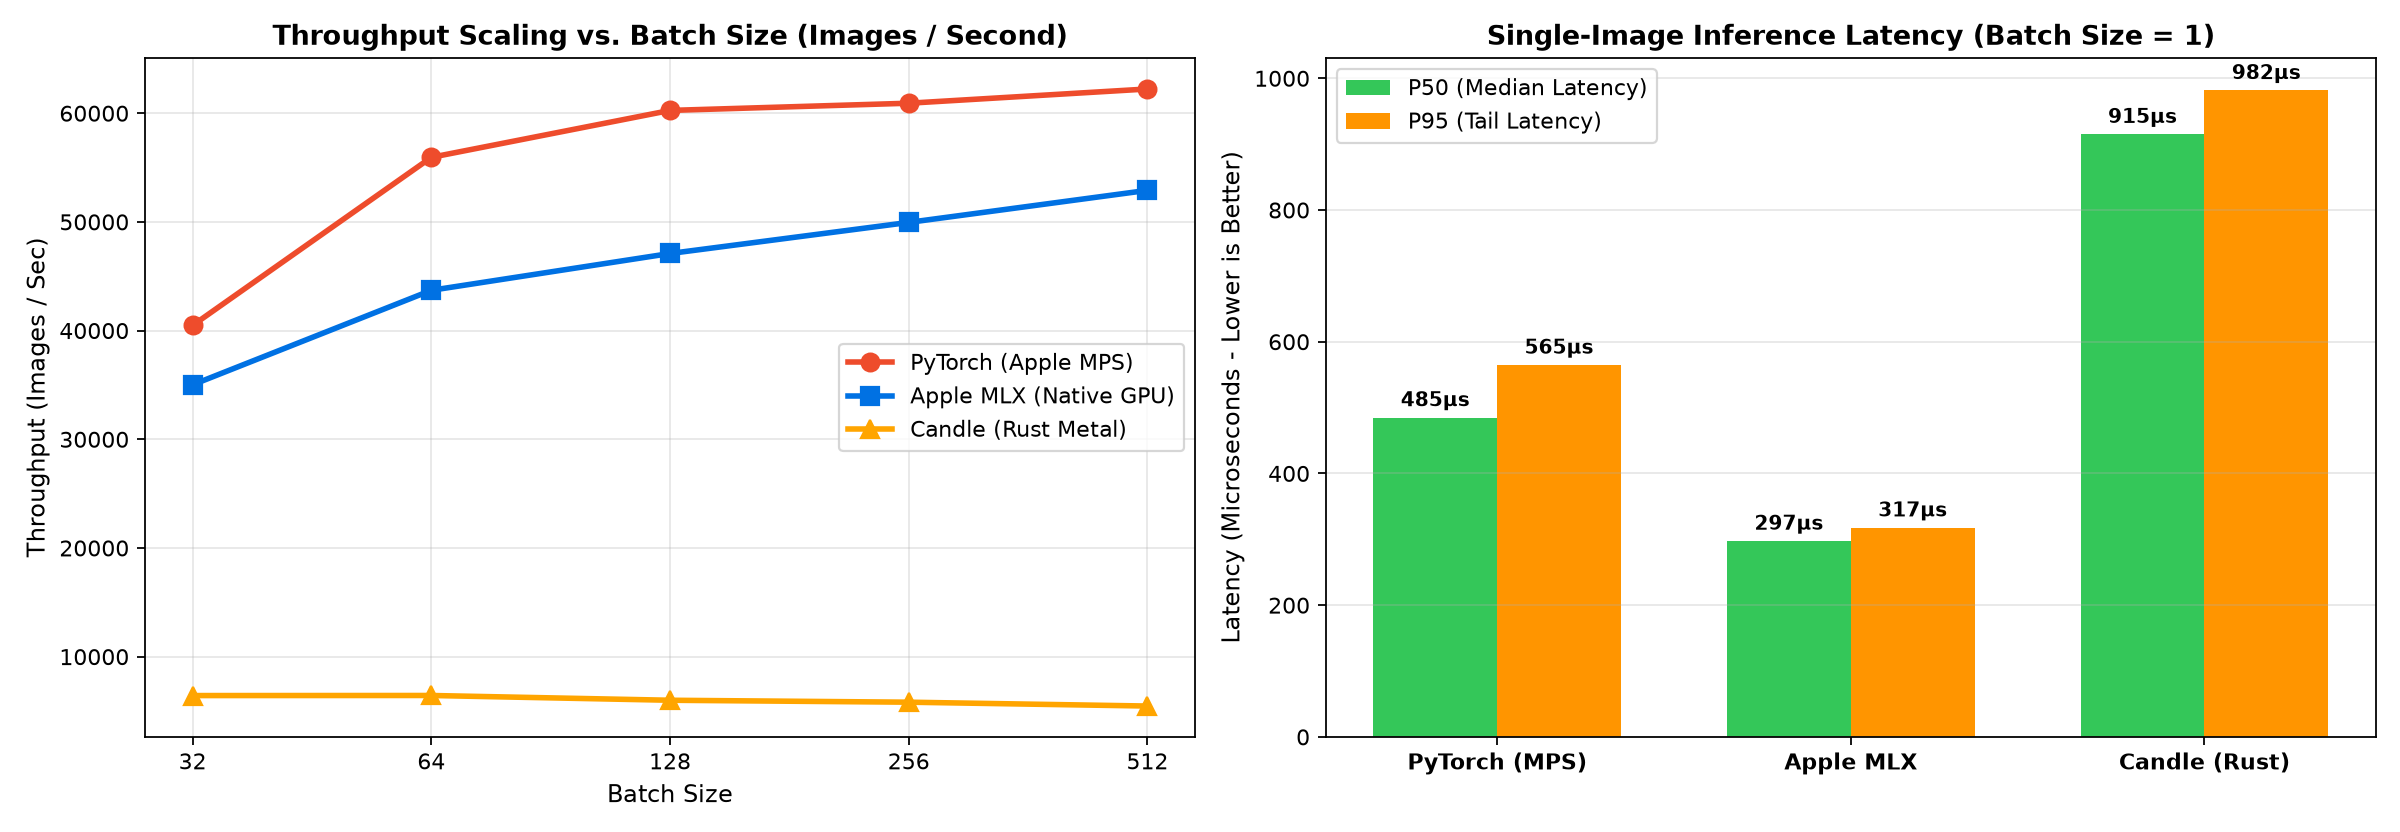
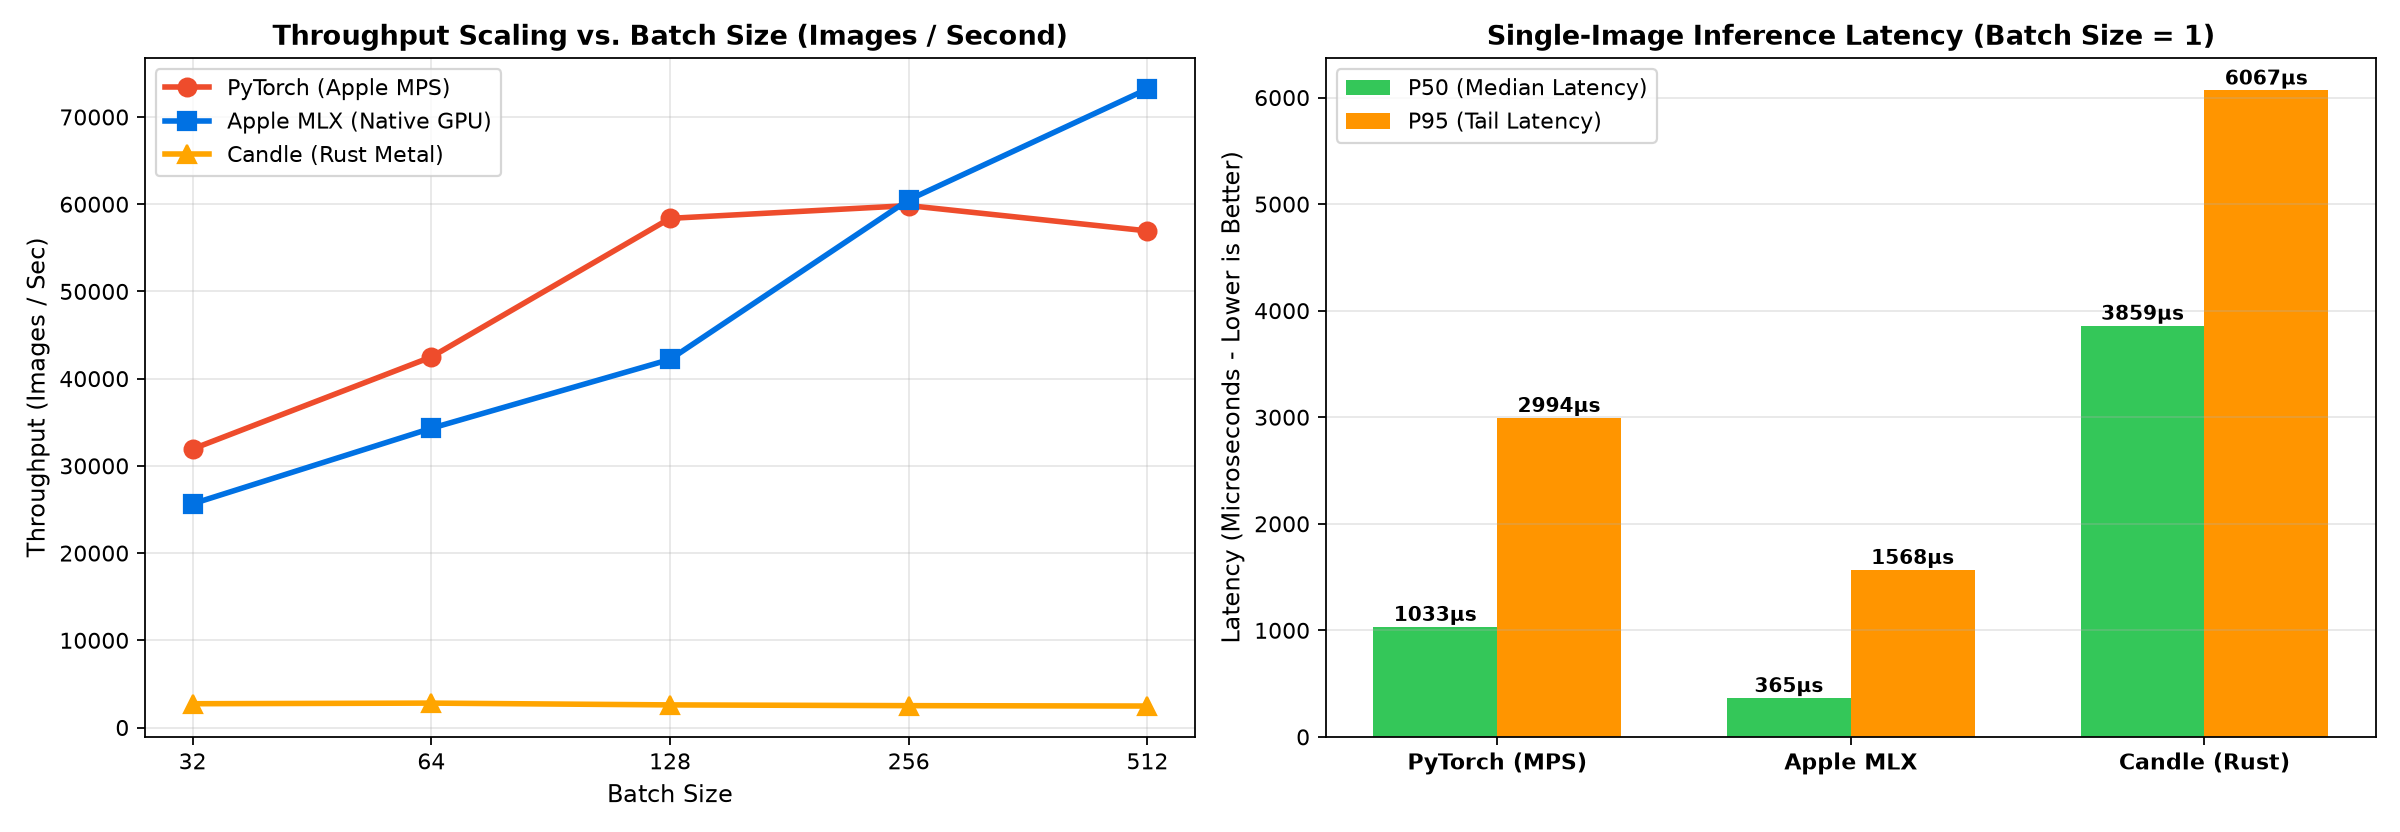
Match model architecture and timing across frameworks

diff --git a/rust_candle/src/main.rs b/rust_candle/src/main.rs
@@ -1,11 +1,16 @@
 use anyhow::Result;
 use candle_core::{Device, Tensor};
-use candle_nn::{conv2d, linear, Conv2dConfig, Linear, Module, VarBuilder, VarMap};
+use candle_nn::{
+    batch_norm, conv2d, linear, BatchNorm, BatchNormConfig, Conv2dConfig, Linear, Module,
+    ModuleT, VarBuilder, VarMap,
+};
 use std::time::Instant;
 
 struct StandardCNN {
     conv1: candle_nn::Conv2d,
+    bn1: BatchNorm,
     conv2: candle_nn::Conv2d,
+    bn2: BatchNorm,
     fc1: Linear,
     fc2: Linear,
 }
@@ -17,17 +22,27 @@ impl StandardCNN {
             ..Default::default()
         };
         let conv1 = conv2d(1, 32, 3, conv_cfg, vs.pp("conv1"))?;
+        let bn1 = batch_norm(32, BatchNormConfig::default(), vs.pp("bn1"))?;
         let conv2 = conv2d(32, 64, 3, conv_cfg, vs.pp("conv2"))?;
+        let bn2 = batch_norm(64, BatchNormConfig::default(), vs.pp("bn2"))?;
         let fc1 = linear(64 * 7 * 7, 128, vs.pp("fc1"))?;
         let fc2 = linear(128, 10, vs.pp("fc2"))?;
-        Ok(Self { conv1, conv2, fc1, fc2 })
+        Ok(Self {
+            conv1,
+            bn1,
+            conv2,
+            bn2,
+            fc1,
+            fc2,
+        })
     }
 
     fn forward(&self, xs: &Tensor) -> Result<Tensor> {
-        // xs: (B, 1, 28, 28)
-        let xs = self.conv1.forward(xs)?.relu()?;
+        // xs: (B, 1, 28, 28); BatchNorm in inference mode (train = false) to match
+        // torch `model.eval()` and mlx `model.eval()`.
+        let xs = self.bn1.forward_t(&self.conv1.forward(xs)?, false)?.relu()?;
         let xs = xs.max_pool2d(2)?; // (B, 32, 14, 14)
-        let xs = self.conv2.forward(&xs)?.relu()?;
+        let xs = self.bn2.forward_t(&self.conv2.forward(&xs)?, false)?.relu()?;
         let xs = xs.max_pool2d(2)?; // (B, 64, 7, 7)
         let (b, _, _, _) = xs.dims4()?;
         let xs = xs.reshape((b, 64 * 7 * 7))?;
@@ -37,10 +52,19 @@ impl StandardCNN {
     }
 }
 
-fn sync_device(t: &Tensor) -> Result<()> {
-    // Reading data from the tensor forces Apple Metal GPU synchronization
-    let _ = t.flatten_all()?.to_vec1::<f32>()?;
+fn sync_device(device: &Device) -> Result<()> {
+    // Wait for all queued Metal command buffers; no host copy (matches
+    // torch.mps.synchronize() and mx.eval()).
+    device.synchronize()?;
     Ok(())
+}
+
+// Linear interpolation, identical to numpy.percentile(method="linear").
+fn pct(sorted: &[f64], q: f64) -> f64 {
+    let pos = q * (sorted.len() - 1) as f64;
+    let lo = pos.floor() as usize;
+    let hi = pos.ceil() as usize;
+    sorted[lo] + (sorted[hi] - sorted[lo]) * (pos - lo as f64)
 }
 
 fn main() -> Result<()> {
@@ -61,7 +85,8 @@ fn main() -> Result<()> {
     let model = StandardCNN::new(vs)?;
 
     let batch_sizes = vec![32, 64, 128, 256, 512];
-    let iterations = 40;
+    let min_seconds = 2.0f64;
+    let min_iters = 50usize;
 
     println!("\n>>> Candle (Rust) Batch Throughput Benchmark <<<");
     let mut throughput_map = serde_json::Map::new();
@@ -72,25 +97,34 @@ fn main() -> Result<()> {
         // Warmup
         for _ in 0..5 {
             let out = model.forward(&x)?;
-            sync_device(&out)?;
+            let _ = out;
+            sync_device(&device)?;
         }
 
+        let mut n = 0usize;
         let start = Instant::now();
-        for _ in 0..iterations {
+        loop {
             let out = model.forward(&x)?;
-            sync_device(&out)?;
+            let _ = out;
+            sync_device(&device)?;
+            n += 1;
+            if n >= min_iters && start.elapsed().as_secs_f64() >= min_seconds {
+                break;
+            }
         }
         let duration = start.elapsed().as_secs_f64();
 
-        let total_imgs = (bs * iterations) as f64;
+        let total_imgs = (bs * n) as f64;
         let img_per_sec = total_imgs / duration;
         throughput_map.insert(bs.to_string(), serde_json::Value::from(img_per_sec));
 
         println!(
-            "  Batch {:3}: {:8.0} img/s ({:6.2} ms/step)",
+            "  Batch {:3}: {:8.0} img/s ({:6.2} ms/step, {} iters in {:.2}s)",
             bs,
             img_per_sec,
-            (duration / iterations as f64) * 1000.0
+            (duration / n as f64) * 1000.0,
+            n,
+            duration
         );
     }
 
@@ -100,21 +134,23 @@ fn main() -> Result<()> {
     // Warmup
     for _ in 0..20 {
         let out = model.forward(&x1)?;
-        sync_device(&out)?;
+        let _ = out;
+        sync_device(&device)?;
     }
 
     let mut latencies_us = Vec::with_capacity(500);
     for _ in 0..500 {
         let t0 = Instant::now();
         let out = model.forward(&x1)?;
-        sync_device(&out)?;
+        let _ = out;
+        sync_device(&device)?;
         latencies_us.push(t0.elapsed().as_secs_f64() * 1_000_000.0);
     }
 
     latencies_us.sort_by(|a, b| a.partial_cmp(b).unwrap());
-    let p50 = latencies_us[(latencies_us.len() as f64 * 0.50) as usize];
-    let p95 = latencies_us[(latencies_us.len() as f64 * 0.95) as usize];
-    let p99 = latencies_us[(latencies_us.len() as f64 * 0.99) as usize];
+    let p50 = pct(&latencies_us, 0.50);
+    let p95 = pct(&latencies_us, 0.95);
+    let p99 = pct(&latencies_us, 0.99);
 
     println!(
         "[Candle Batch-1 Latency] P50: {:6.1} μs | P95: {:6.1} μs | P99: {:6.1} μs",

diff --git a/benchmark_all.py b/benchmark_all.py
@@ -6,6 +6,7 @@ and outputs a publication-quality comparative visualization.
 import os
 import sys
 import json
+import shutil
 import subprocess
 import matplotlib.pyplot as plt
 import numpy as np
@@ -16,7 +17,9 @@ from torch_bench import benchmark_torch_throughput, benchmark_torch_latency_batc
 from mlx_bench import benchmark_mlx_throughput, benchmark_mlx_latency_batch1
 
 def run_candle_rust():
-    cargo_bin = "/opt/homebrew/bin/cargo"
+    cargo_bin = shutil.which("cargo") or os.path.expanduser("~/.cargo/bin/cargo")
+    if not os.path.exists(cargo_bin):
+        raise RuntimeError("cargo not found on PATH or at ~/.cargo/bin; install Rust via rustup or `brew install rust`")
     rust_dir = os.path.join(os.path.dirname(__file__), "rust_candle")
     binary_path = os.path.join(rust_dir, "target", "release", "rust_candle")
 
@@ -35,6 +38,14 @@ def run_candle_rust():
             data = json.loads(json_str)
             break
             
+    if not data:
+        raise RuntimeError(
+            "Candle binary produced no JSON_RESULT line.\n--- stdout ---\n"
+            f"{result.stdout}\n--- stderr ---\n{result.stderr}"
+        )
+    if "Metal init failed" in result.stderr:
+        raise RuntimeError("Candle fell back to CPU; results would not be comparable:\n" + result.stderr)
+
     # Convert throughput keys to integers
     throughput = {int(k): float(v) for k, v in data.get("throughput", {}).items()}
     latency = data.get("latency_us", {"p50": 0.0, "p95": 0.0, "p99": 0.0})
@@ -50,12 +61,12 @@ def main(output_plot="assets/shootout_results.png"):
 
     # 1. Run PyTorch
     print("\n>>> 1. Benchmarking PyTorch (MPS) <<<")
-    torch_tput, torch_mem = benchmark_torch_throughput(batch_sizes=batch_sizes)
+    torch_tput = benchmark_torch_throughput(batch_sizes=batch_sizes)
     torch_lat = benchmark_torch_latency_batch1()
 
     # 2. Run Apple MLX
     print("\n>>> 2. Benchmarking Apple MLX (GPU) <<<")
-    mlx_tput, mlx_mem = benchmark_mlx_throughput(batch_sizes=batch_sizes)
+    mlx_tput = benchmark_mlx_throughput(batch_sizes=batch_sizes)
     mlx_lat = benchmark_mlx_latency_batch1()
 
     # 3. Run Hugging Face Candle (Rust)
@@ -69,9 +80,9 @@ def main(output_plot="assets/shootout_results.png"):
     print(f"{'Metric':<28} | {'PyTorch (MPS)':<16} | {'Apple MLX':<16} | {'Candle (Rust)':<16}")
     print("-" * 80)
     for bs in batch_sizes:
-        t_val = torch_tput.get(bs, 0.0)
-        m_val = mlx_tput.get(bs, 0.0)
-        c_val = candle_tput.get(bs, 0.0)
+        t_val = torch_tput[bs]
+        m_val = mlx_tput[bs]
+        c_val = candle_tput[bs]
         print(f"Batch {bs:<3} Throughput (img/s)  | {t_val:<16.0f} | {m_val:<16.0f} | {c_val:<16.0f}")
 
     t_p50 = f"{torch_lat['p50']:.1f} μs"
@@ -86,15 +97,10 @@ def main(output_plot="assets/shootout_results.png"):
     m_p99 = f"{mlx_lat['p99']:.1f} μs"
     c_p99 = f"{candle_lat['p99']:.1f} μs"
 
-    t_mem = f"{torch_mem:.1f} MB"
-    m_mem = f"{mlx_mem:.1f} MB"
-    c_mem = "Zero GC (Rust)"
-
     print("-" * 80)
     print(f"{'Batch-1 Latency P50':<28} | {t_p50:<16} | {m_p50:<16} | {c_p50:<16}")
     print(f"{'Batch-1 Latency P95':<28} | {t_p95:<16} | {m_p95:<16} | {c_p95:<16}")
     print(f"{'Batch-1 Latency P99':<28} | {t_p99:<16} | {m_p99:<16} | {c_p99:<16}")
-    print(f"{'GPU Memory Footprint':<28} | {t_mem:<16} | {m_mem:<16} | {c_mem:<16}")
     print("=" * 80)
 
     # 5. Generate Publication-Quality Visualizations
@@ -105,7 +111,7 @@ def main(output_plot="assets/shootout_results.png"):
     x_indices = np.arange(len(batch_sizes))
     axes[0].plot(x_indices, [torch_tput[b] for b in batch_sizes], "o-", label="PyTorch (Apple MPS)", color="#EE4C2C", lw=2.5, ms=8)
     axes[0].plot(x_indices, [mlx_tput[b] for b in batch_sizes], "s-", label="Apple MLX (Native GPU)", color="#0071E3", lw=2.5, ms=8)
-    axes[0].plot(x_indices, [candle_tput.get(b, 0) for b in batch_sizes], "^-", label="Candle (Rust Metal)", color="#FFA500", lw=2.5, ms=8)
+    axes[0].plot(x_indices, [candle_tput[b] for b in batch_sizes], "^-", label="Candle (Rust Metal)", color="#FFA500", lw=2.5, ms=8)
     axes[0].set_title("Throughput Scaling vs. Batch Size (Images / Second)", fontsize=12, fontweight="bold")
     axes[0].set_xlabel("Batch Size", fontsize=11)
     axes[0].set_ylabel("Throughput (Images / Sec)", fontsize=11)

diff --git a/python/torch_bench.py b/python/torch_bench.py
@@ -1,9 +1,8 @@
 """
 PyTorch Benchmark Module on Apple Silicon MPS (Metal Performance Shaders).
 Measures:
-1. Training and Forward Throughput (images/sec) across batch sizes
+1. Inference (forward-only, no-grad) throughput (images/sec) across batch sizes
 2. Microsecond Inference Latency at Batch Size 1 (P50, P95, P99)
-3. Peak GPU Unified Memory Allocation (MB)
 """
 import time
 import numpy as np
@@ -34,7 +33,7 @@ def get_device():
         return torch.device("mps")
     return torch.device("cpu")
 
-def benchmark_torch_throughput(batch_sizes=[32, 64, 128, 256, 512], iterations=40):
+def benchmark_torch_throughput(batch_sizes=[32, 64, 128, 256, 512], min_seconds=2.0, min_iters=50):
     device = get_device()
     model = StandardCNN().to(device)
     model.eval()
@@ -42,6 +41,7 @@ def benchmark_torch_throughput(batch_sizes=[32, 64, 128, 256, 512], iterations=4
     results = {}
     print(f"[PyTorch] Benchmarking Throughput on device: {device}")
 
+    step_chunk = 20
     with torch.no_grad():
         for bs in batch_sizes:
             x = torch.randn(bs, 1, 28, 28, device=device)
@@ -51,23 +51,24 @@ def benchmark_torch_throughput(batch_sizes=[32, 64, 128, 256, 512], iterations=4
             if device.type == "mps":
                 torch.mps.synchronize()
 
+            n = 0
             start_t = time.perf_counter()
-            for _ in range(iterations):
-                _ = model(x)
-            if device.type == "mps":
-                torch.mps.synchronize()
+            while True:
+                for _ in range(step_chunk):
+                    _ = model(x)
+                if device.type == "mps":
+                    torch.mps.synchronize()
+                n += step_chunk
+                if n >= min_iters and (time.perf_counter() - start_t) >= min_seconds:
+                    break
             duration = time.perf_counter() - start_t
 
-            total_images = bs * iterations
+            total_images = bs * n
             img_per_sec = total_images / duration
             results[bs] = img_per_sec
-            print(f"  Batch {bs:3d}: {img_per_sec:8.0f} img/s ({duration/iterations*1000:6.2f} ms/step)")
+            print(f"  Batch {bs:3d}: {img_per_sec:8.0f} img/s ({duration/n*1000:6.2f} ms/step, {n} iters in {duration:.2f}s)")
 
-    mem_mb = 0.0
-    if device.type == "mps" and hasattr(torch.mps, "current_allocated_memory"):
-        mem_mb = torch.mps.current_allocated_memory() / (1024 * 1024)
-
-    return results, mem_mb
+    return results
 
 def benchmark_torch_latency_batch1(iterations=500):
     device = get_device()

diff --git a/python/mlx_bench.py b/python/mlx_bench.py
@@ -1,9 +1,8 @@
 """
 Apple MLX Benchmark Module on Apple Silicon Unified Memory.
 Measures:
-1. Training and Forward Throughput (images/sec) across batch sizes
+1. Inference (forward-only, no-grad) throughput (images/sec) across batch sizes
 2. Microsecond Inference Latency at Batch Size 1 (P50, P95, P99)
-3. Active GPU Unified Memory Allocation (MB)
 """
 import time
 import numpy as np
@@ -29,8 +28,9 @@ class StandardCNN(nn.Module):
         x = nn.relu(self.fc1(x))
         return self.fc2(x)
 
-def benchmark_mlx_throughput(batch_sizes=[32, 64, 128, 256, 512], iterations=40):
+def benchmark_mlx_throughput(batch_sizes=[32, 64, 128, 256, 512], min_seconds=2.0, min_iters=50):
     model = StandardCNN()
+    model.eval()  # inference-mode BatchNorm: use running stats, no stat updates
     mx.eval(model.parameters())
     
     compiled_model = mx.compile(model)
@@ -45,27 +45,26 @@ def benchmark_mlx_throughput(batch_sizes=[32, 64, 128, 256, 512], iterations=40)
             out = compiled_model(x)
             mx.eval(out)
 
+        n = 0
         start_t = time.perf_counter()
-        for _ in range(iterations):
+        while True:
             out = compiled_model(x)
             mx.eval(out)
+            n += 1
+            if n >= min_iters and (time.perf_counter() - start_t) >= min_seconds:
+                break
         duration = time.perf_counter() - start_t
 
-        total_images = bs * iterations
+        total_images = bs * n
         img_per_sec = total_images / duration
         results[bs] = img_per_sec
-        print(f"  Batch {bs:3d}: {img_per_sec:8.0f} img/s ({duration/iterations*1000:6.2f} ms/step)")
+        print(f"  Batch {bs:3d}: {img_per_sec:8.0f} img/s ({duration/n*1000:6.2f} ms/step, {n} iters in {duration:.2f}s)")
 
-    mem_mb = 0.0
-    if hasattr(mx, "get_active_memory"):
-        mem_mb = mx.get_active_memory() / (1024 * 1024)
-    elif hasattr(mx.metal, "get_active_memory"):
-        mem_mb = mx.metal.get_active_memory() / (1024 * 1024)
-
-    return results, mem_mb
+    return results
 
 def benchmark_mlx_latency_batch1(iterations=500):
     model = StandardCNN()
+    model.eval()
     mx.eval(model.parameters())
     compiled_model = mx.compile(model)
 
